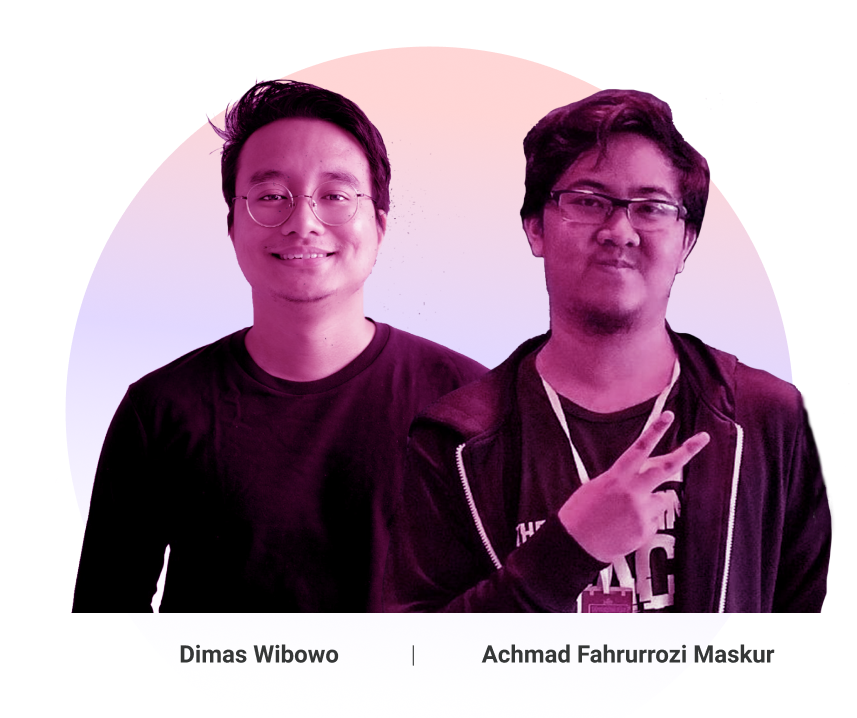
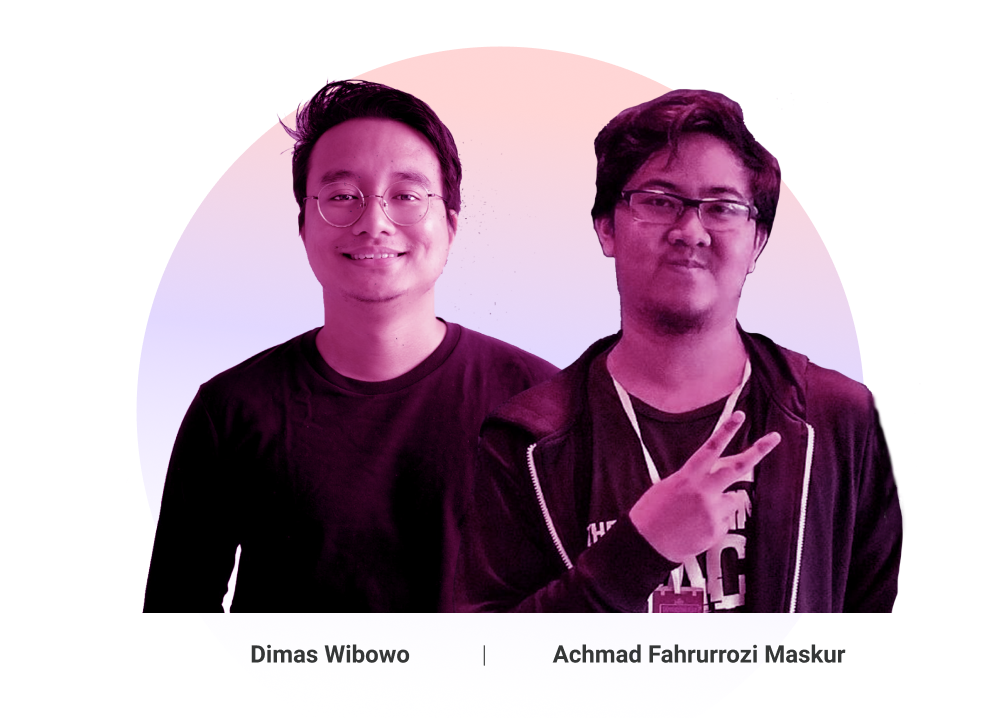
Update talks hero image

diff --git a/components/page/event/talks/TalksTab.tsx b/components/page/event/talks/TalksTab.tsx
@@ -8,7 +8,7 @@ const TalksTab: React.FC = () => {
   return (
     <>
       <div className="row mb-5">
-        <div className="col-md-6 offset-md-3 col-12" style={{ textAlign: "center" }}>
+        <div className="col-md-8 offset-md-2 col-12" style={{ textAlign: "center" }}>
           <img src={TalksItems[tabSelection].hero} />
         </div>
       </div>
